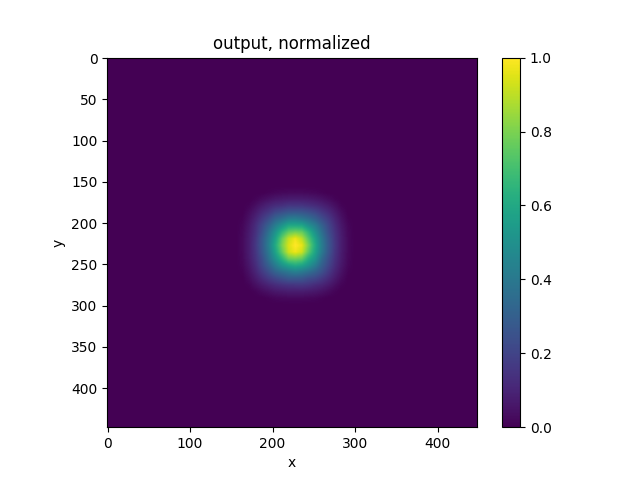
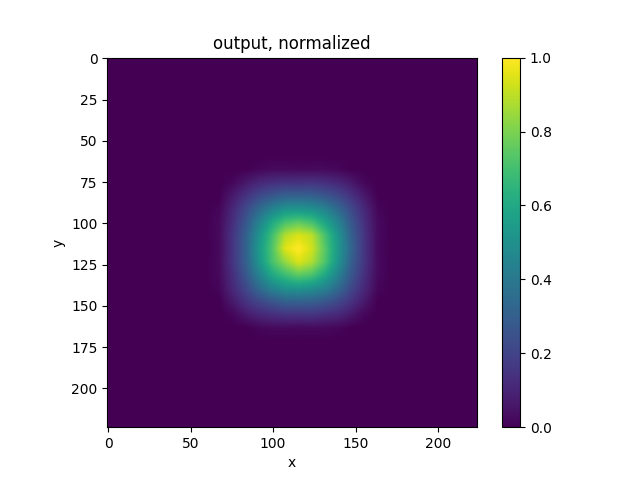
resnet field

diff --git a/experiments/experiment_field_size_resnet50.py b/experiments/experiment_field_size_resnet50.py
@@ -1,5 +1,5 @@
 from train import Trainer
-from torchvision.models.segmentation import fcn_resnet50
+from nets import get_resnet_50_adapted
 from dataset_generator import ESymbolDataset
 from train import PostTrainEvaluator
 import numpy as np
@@ -9,7 +9,7 @@ import torch
 
 
 def experiment_field_size_resnet50():
-    distances = np.arange(7, 48 + 1)
+    distances = np.arange(8, 110 + 1, 2)
     RESULT_SAVE_BASE_FILENAME = 'experiment_field_size_vs_depth_resnet50.npy'
     save_path = constants.SAVE_EXPERIMENTS_RESULTS_DIR \
         + '/' + RESULT_SAVE_BASE_FILENAME
@@ -20,10 +20,7 @@ def experiment_field_size_resnet50():
     for distance_index in range(distances.size):
         distance = distances[distance_index]
         dataset = ESymbolDataset(distance=distance, )
-        net = fcn_resnet50(num_classes=constants.N_SYMBOLS,
-                           pretrained=False)
-        net.backbone.conv1 = torch.nn.Conv2d(1, 64, kernel_size=7, stride=2,
-                                             padding=3, bias=False)
+        net = get_resnet_50_adapted()
         trainer = Trainer(dataset=dataset, net=net)
         trainer()
         net = trainer.net

diff --git a/train/trainer.py b/train/trainer.py
@@ -7,6 +7,7 @@ from torch.utils.data import Dataset
 from torch.optim import optimizer
 from torch.nn.modules import loss
 from train import MetricsMeasurer
+from collections import OrderedDict
 
 
 class Trainer:
@@ -60,12 +61,15 @@ class Trainer:
             is_diaeresis = batch["is_diaeresis"]
             self.optimizer.zero_grad()
             prediction = self.net(image)
+            if type(prediction) == OrderedDict:
+                # special case for resnet
+                prediction = prediction["out"]
             loss = self.loss_function(prediction, image_mask)
             loss_value, accuracy, batch_size = \
                 self.measurer.process_batch(is_diaeresis,
                                             prediction,
                                             loss)
-            #print(loss_value, accuracy)
+            #print(step_index, loss_value, accuracy)
             loss.backward()
             self.optimizer.step()
 

diff --git a/main.py b/main.py
@@ -1,6 +1,6 @@
 import fire
 
-DEFAULT_SCRIPT = "experiment_field_size_resnet50_by_forward_pass"
+DEFAULT_SCRIPT = "plot_field_size_resnet"
 
 def run_script(script : str = DEFAULT_SCRIPT):
     if script == "experiment_field_size_vs_depth":
@@ -48,6 +48,12 @@ def run_script(script : str = DEFAULT_SCRIPT):
     elif script == "experiment_field_size_resnet50_by_forward_pass":
         from experiments import experiment_field_size_resnet50_by_forward_pass
         experiment_field_size_resnet50_by_forward_pass()
+    elif script == "experiment_field_size_resnet50":
+        from experiments import experiment_field_size_resnet50
+        experiment_field_size_resnet50()
+    elif script == "plot_field_size_resnet":
+        from visualization_utils import plot_field_size_resnet
+        plot_field_size_resnet()
 
 
 if __name__ == '__main__':

diff --git a/train/post_train_evaluator.py b/train/post_train_evaluator.py
@@ -4,6 +4,7 @@ import numpy as np
 from typing import Tuple
 from train import Trainer
 from train import MetricsMeasurer
+from collections import OrderedDict
 
 class PostTrainEvaluator:
     def __init__(self, trainer: Trainer = None):
@@ -28,7 +29,9 @@ class PostTrainEvaluator:
                 image_mask = image_mask.to(self.device)
                 is_diaeresis = batch["is_diaeresis"]
                 prediction = self.net(image)
-
+                if type(prediction) == OrderedDict:
+                    # special case for resnet
+                    prediction = prediction["out"]
                 loss_batch = self.loss_function(prediction, image_mask)
                 loss_value, accuracy, batch_size = \
                     self.measurer.process_batch(is_diaeresis,

diff --git a/visualization_utils/plot_field_size_resnet.py b/visualization_utils/plot_field_size_resnet.py
@@ -1,0 +1,18 @@
+import matplotlib.pyplot as plt
+import numpy as np
+
+def plot_field_size_resnet() -> None:
+    DATA_PATH_BASE = 'experiments/results_archive'
+    DATA_PATH_FILE = 'experiment_field_size_vs_depth_resnet50_2021_12_30.npy'
+
+    DATA_PATH = DATA_PATH_BASE + '/' + DATA_PATH_FILE
+    data = np.load(DATA_PATH)
+
+    distances = data[:, 0]
+    accuracies = data[:, 1]
+
+    plt.plot(distances, accuracies, 'k.-')
+    plt.xlabel('distance')
+    plt.ylabel('accuracy')
+    plt.title(DATA_PATH_FILE)
+    plt.show()

diff --git a/experiments/__init__.py b/experiments/__init__.py
@@ -9,3 +9,4 @@ from .experiment_field_size_by_forward_pass_decomposed_init import experiment_fi
 from .experiment_field_size_vs_depth_dot_circular import experiment_field_size_vs_depth_dot_circular
 from .experiment_field_size_by_forward_pass_for_shifted import experiment_field_size_by_forward_pass_for_shifted
 from .experiment_field_size_resnet50_by_forward_pass import experiment_field_size_resnet50_by_forward_pass
+from .experiment_field_size_resnet50 import experiment_field_size_resnet50

diff --git a/visualization_utils/__init__.py b/visualization_utils/__init__.py
@@ -4,3 +4,4 @@ from .plot_field_size_vs_depth import plot_field_size_vs_depth
 from .plot_field_size_by_forward_pass import plot_field_size_by_forward_pass
 from .plot_field_size_by_forward_pass_decomposed_init import plot_field_size_by_forward_pass_decomposed_init
 from .show_dataset import show_dataset
+from .plot_field_size_resnet import plot_field_size_resnet

diff --git a/markdown_site/experiments_log/log.md b/markdown_site/experiments_log/log.md
@@ -132,9 +132,13 @@ angle: 360 degrees
 [experiment_field_size_resnet50_by_forward_pass.py](../../experiments/experiment_field_size_resnet50_by_forward_pass.py)  
 ![resnet, field, heatmap](./field_size_vs_depth_by_forward_pass_resnet_hetamap.png)  
 ![resnet, field, profile](./field_size_vs_depth_by_forward_pass_resnet_profile.png)  
-field radius at 0.0012 level is 75 pixels  
+field radius at 0.0012 level is 59 pixels  
+
+#### 16. ResNet50, receptive field
+[experiment_field_size_resnet50.py](../../experiments/experiment_field_size_resnet50.py)  
+![resnet, field](./field_size_resnet.png)    
+field size radius is about 60 pixels, but it has nonzero probability to be trained at bigger radius  
+
   
-
-
-
+  
 
